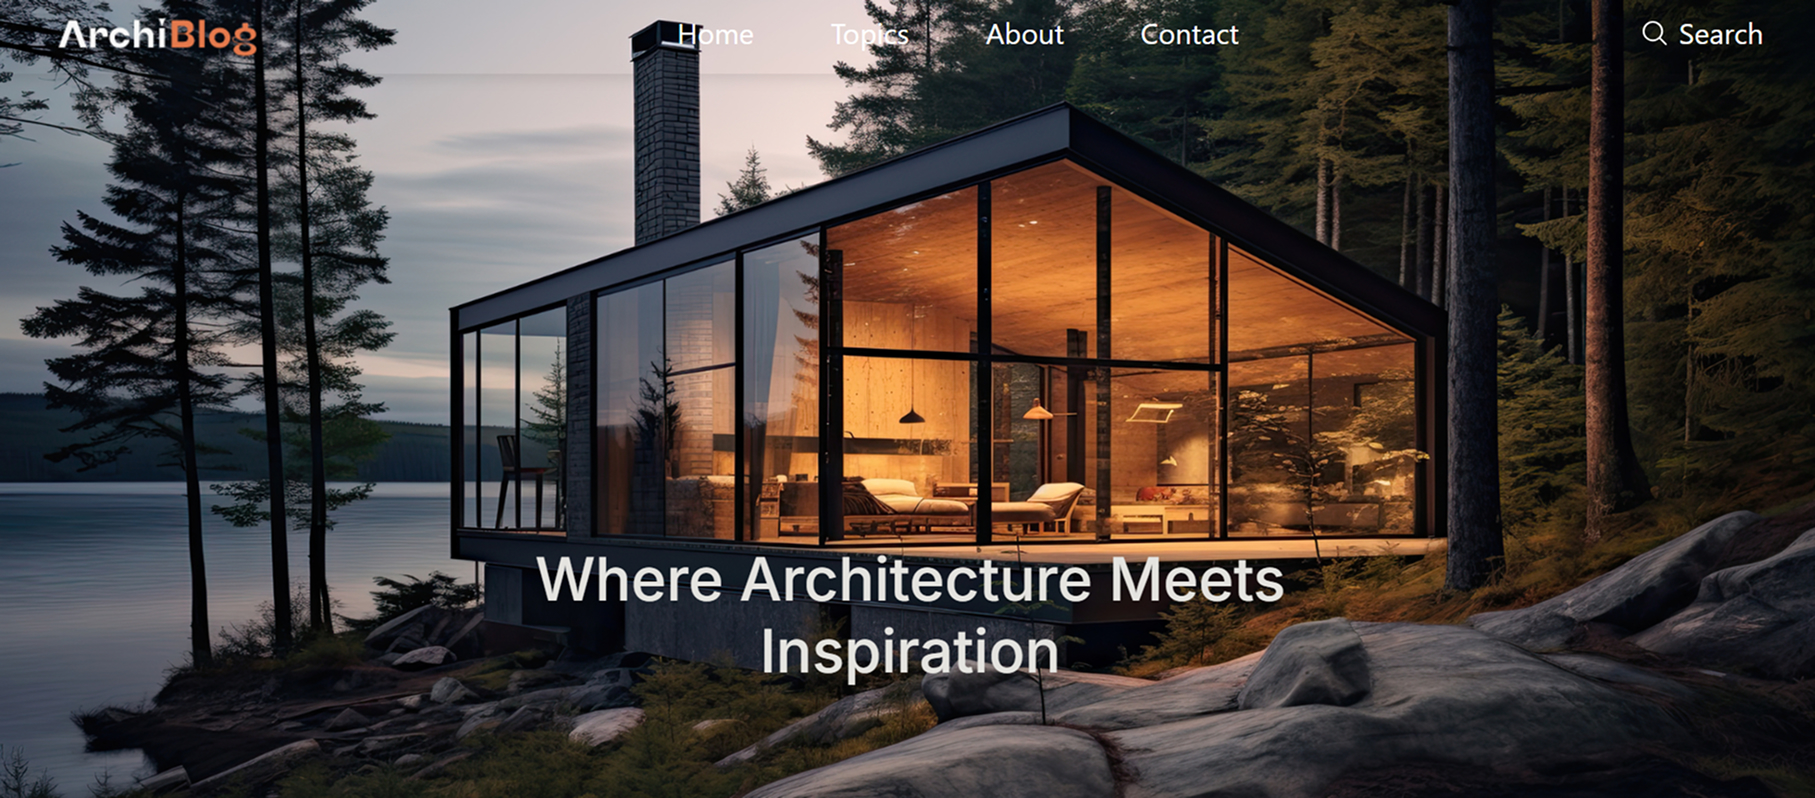
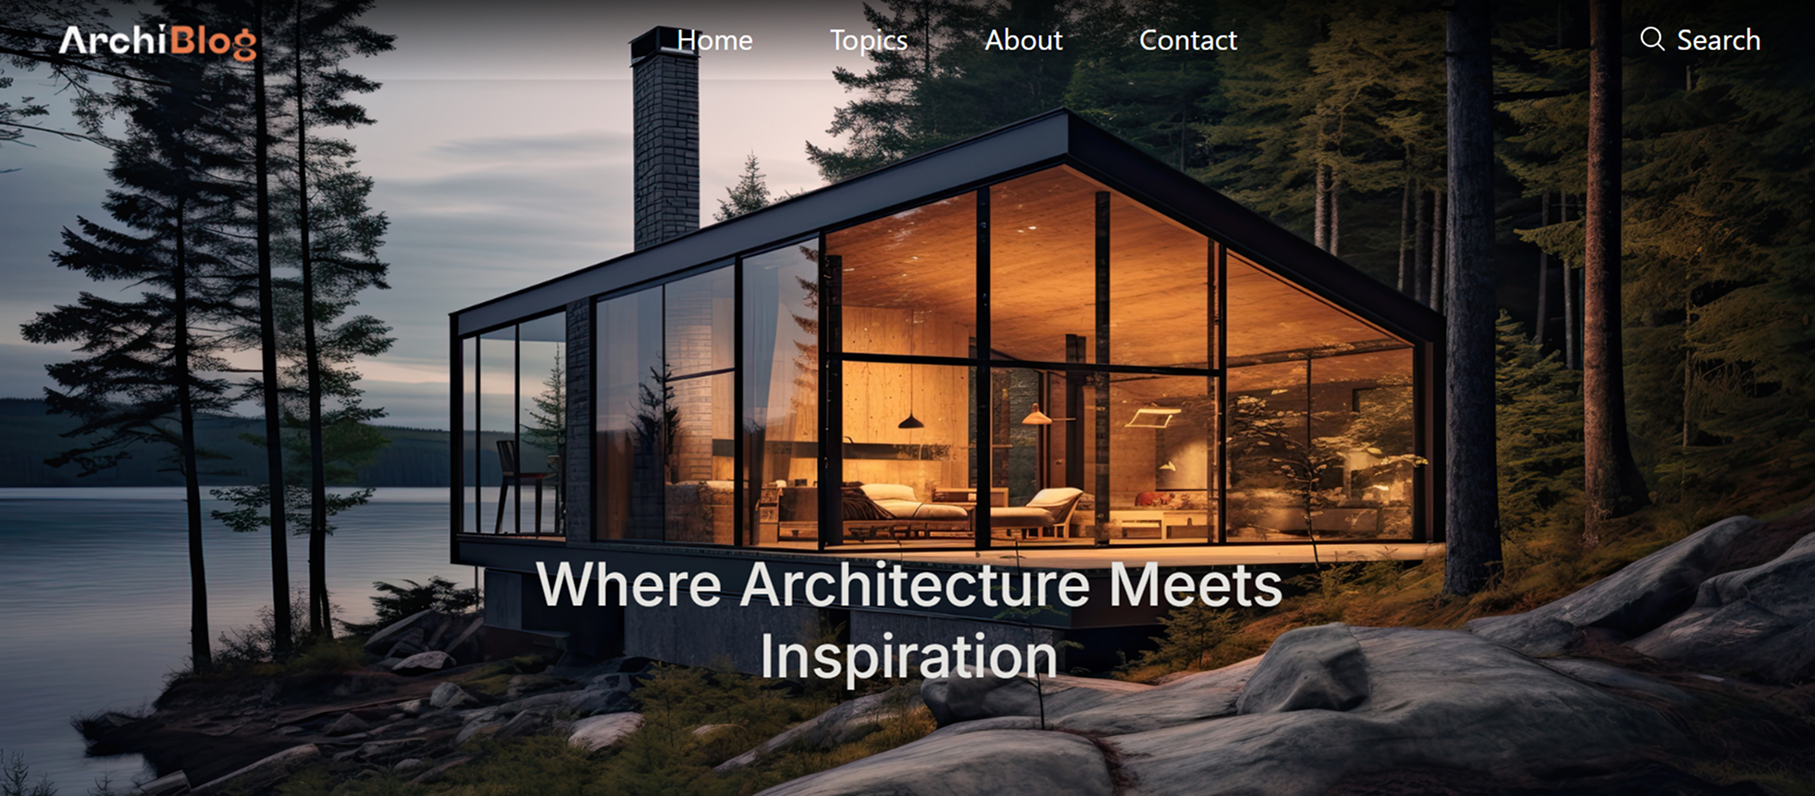
Enhancement

diff --git a/BlogFrontend/src/app/Components/navbar/navbar.component.scss b/BlogFrontend/src/app/Components/navbar/navbar.component.scss
@@ -1,9 +1,8 @@
-nav{
-    background-color: transparent;
-    //box-shadow: 0px 2px 4px rgba(0, 0, 0, 0.1);
+nav {
+    background: linear-gradient(to bottom, rgba(0, 0, 0, 0.7), transparent);
     box-shadow: 0px 3px 10px 2px rgba(40, 39, 39, 0.1);
     z-index: 1;
-}
+  }
 
 nav a{
     color: white;

diff --git a/BlogFrontend/src/styles.scss b/BlogFrontend/src/styles.scss
@@ -2,7 +2,6 @@
 $alabaster : #e4e3df;
 $orange: #E4794C;
 $black: #263640;
-$darkBlue: #263640;
 
 //-------------mixins-------------
 @mixin card-title(){
